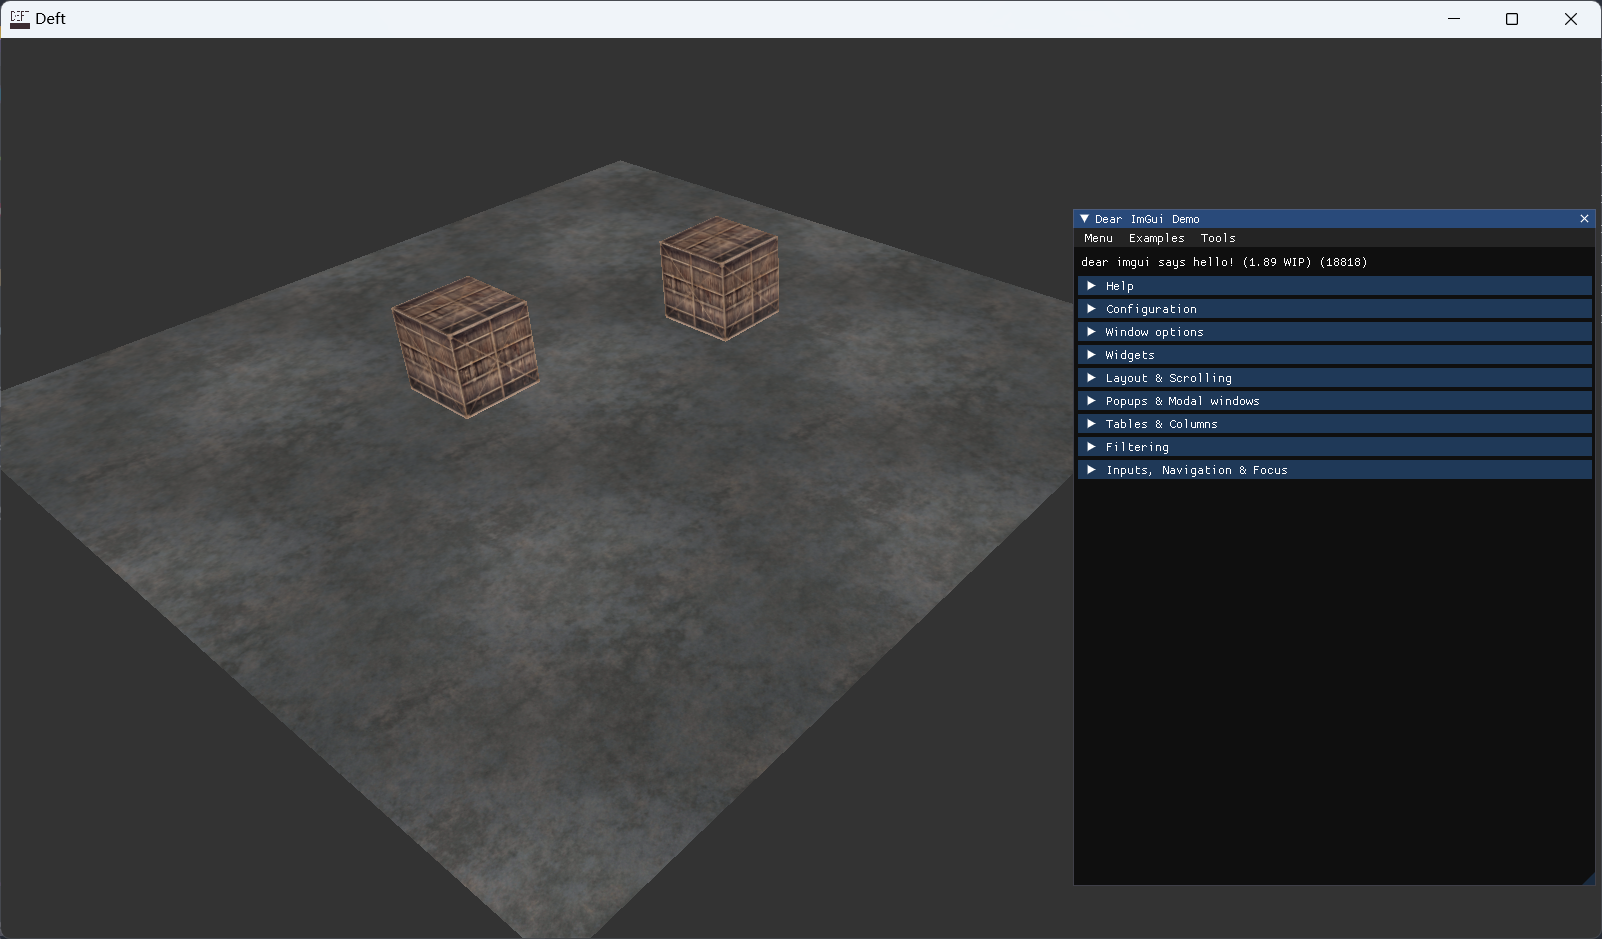
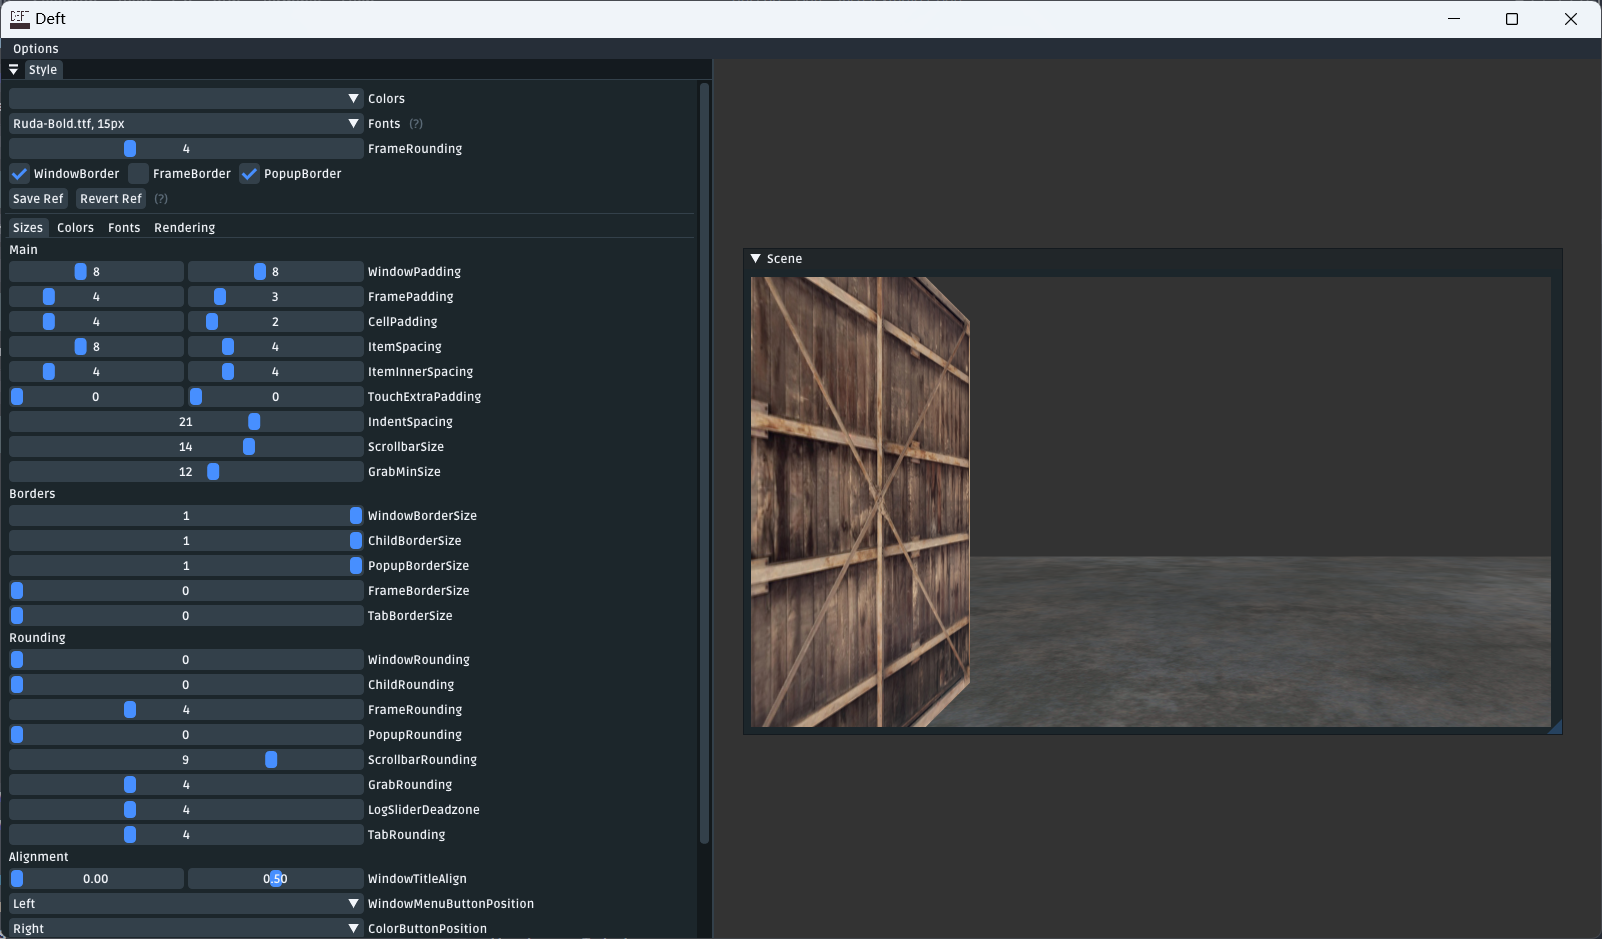
✨ feat(gui): 将 scene 渲染到 gui 窗口中
设置 gui 样式

diff --git a/source/deft/gui/gui.cpp b/source/deft/gui/gui.cpp
@@ -15,7 +15,7 @@ namespace deft {
 
 Gui::Gui() {
   init();
-  //
+  _scene = Application::Get().getScene();
 }
 
 Gui::~Gui() {
@@ -49,11 +49,63 @@ void Gui::init() {
 
   // When viewports are enabled we tweak WindowRounding/WindowBg so platform
   // windows can look identical to regular ones.
+
+  // 样式详情见
+  // https://github.com/ocornut/imgui/issues/707#issuecomment-512669512
   ImGuiStyle& style = ImGui::GetStyle();
-  if (io.ConfigFlags & ImGuiConfigFlags_ViewportsEnable) {
-    style.WindowRounding              = 0.0f;
-    style.Colors[ImGuiCol_WindowBg].w = 1.0f;
-  }
+  io.Fonts->AddFontFromFileTTF("assets/font/Ruda-Bold.ttf", 15.0f);
+  style.FrameRounding = 4.0f;
+  style.GrabRounding  = 4.0f;
+
+  ImVec4* colors                         = ImGui::GetStyle().Colors;
+  colors[ImGuiCol_Text]                  = ImVec4(0.95f, 0.96f, 0.98f, 1.00f);
+  colors[ImGuiCol_TextDisabled]          = ImVec4(0.36f, 0.42f, 0.47f, 1.00f);
+  colors[ImGuiCol_WindowBg]              = ImVec4(0.11f, 0.15f, 0.17f, 1.00f);
+  colors[ImGuiCol_ChildBg]               = ImVec4(0.15f, 0.18f, 0.22f, 1.00f);
+  colors[ImGuiCol_PopupBg]               = ImVec4(0.08f, 0.08f, 0.08f, 0.94f);
+  colors[ImGuiCol_Border]                = ImVec4(0.08f, 0.10f, 0.12f, 1.00f);
+  colors[ImGuiCol_BorderShadow]          = ImVec4(0.00f, 0.00f, 0.00f, 0.00f);
+  colors[ImGuiCol_FrameBg]               = ImVec4(0.20f, 0.25f, 0.29f, 1.00f);
+  colors[ImGuiCol_FrameBgHovered]        = ImVec4(0.12f, 0.20f, 0.28f, 1.00f);
+  colors[ImGuiCol_FrameBgActive]         = ImVec4(0.09f, 0.12f, 0.14f, 1.00f);
+  colors[ImGuiCol_TitleBg]               = ImVec4(0.09f, 0.12f, 0.14f, 0.65f);
+  colors[ImGuiCol_TitleBgActive]         = ImVec4(0.08f, 0.10f, 0.12f, 1.00f);
+  colors[ImGuiCol_TitleBgCollapsed]      = ImVec4(0.00f, 0.00f, 0.00f, 0.51f);
+  colors[ImGuiCol_MenuBarBg]             = ImVec4(0.15f, 0.18f, 0.22f, 1.00f);
+  colors[ImGuiCol_ScrollbarBg]           = ImVec4(0.02f, 0.02f, 0.02f, 0.39f);
+  colors[ImGuiCol_ScrollbarGrab]         = ImVec4(0.20f, 0.25f, 0.29f, 1.00f);
+  colors[ImGuiCol_ScrollbarGrabHovered]  = ImVec4(0.18f, 0.22f, 0.25f, 1.00f);
+  colors[ImGuiCol_ScrollbarGrabActive]   = ImVec4(0.09f, 0.21f, 0.31f, 1.00f);
+  colors[ImGuiCol_CheckMark]             = ImVec4(0.28f, 0.56f, 1.00f, 1.00f);
+  colors[ImGuiCol_SliderGrab]            = ImVec4(0.28f, 0.56f, 1.00f, 1.00f);
+  colors[ImGuiCol_SliderGrabActive]      = ImVec4(0.37f, 0.61f, 1.00f, 1.00f);
+  colors[ImGuiCol_Button]                = ImVec4(0.20f, 0.25f, 0.29f, 1.00f);
+  colors[ImGuiCol_ButtonHovered]         = ImVec4(0.28f, 0.56f, 1.00f, 1.00f);
+  colors[ImGuiCol_ButtonActive]          = ImVec4(0.06f, 0.53f, 0.98f, 1.00f);
+  colors[ImGuiCol_Header]                = ImVec4(0.20f, 0.25f, 0.29f, 0.55f);
+  colors[ImGuiCol_HeaderHovered]         = ImVec4(0.26f, 0.59f, 0.98f, 0.80f);
+  colors[ImGuiCol_HeaderActive]          = ImVec4(0.26f, 0.59f, 0.98f, 1.00f);
+  colors[ImGuiCol_Separator]             = ImVec4(0.20f, 0.25f, 0.29f, 1.00f);
+  colors[ImGuiCol_SeparatorHovered]      = ImVec4(0.10f, 0.40f, 0.75f, 0.78f);
+  colors[ImGuiCol_SeparatorActive]       = ImVec4(0.10f, 0.40f, 0.75f, 1.00f);
+  colors[ImGuiCol_ResizeGrip]            = ImVec4(0.26f, 0.59f, 0.98f, 0.25f);
+  colors[ImGuiCol_ResizeGripHovered]     = ImVec4(0.26f, 0.59f, 0.98f, 0.67f);
+  colors[ImGuiCol_ResizeGripActive]      = ImVec4(0.26f, 0.59f, 0.98f, 0.95f);
+  colors[ImGuiCol_Tab]                   = ImVec4(0.11f, 0.15f, 0.17f, 1.00f);
+  colors[ImGuiCol_TabHovered]            = ImVec4(0.26f, 0.59f, 0.98f, 0.80f);
+  colors[ImGuiCol_TabActive]             = ImVec4(0.20f, 0.25f, 0.29f, 1.00f);
+  colors[ImGuiCol_TabUnfocused]          = ImVec4(0.11f, 0.15f, 0.17f, 1.00f);
+  colors[ImGuiCol_TabUnfocusedActive]    = ImVec4(0.11f, 0.15f, 0.17f, 1.00f);
+  colors[ImGuiCol_PlotLines]             = ImVec4(0.61f, 0.61f, 0.61f, 1.00f);
+  colors[ImGuiCol_PlotLinesHovered]      = ImVec4(1.00f, 0.43f, 0.35f, 1.00f);
+  colors[ImGuiCol_PlotHistogram]         = ImVec4(0.90f, 0.70f, 0.00f, 1.00f);
+  colors[ImGuiCol_PlotHistogramHovered]  = ImVec4(1.00f, 0.60f, 0.00f, 1.00f);
+  colors[ImGuiCol_TextSelectedBg]        = ImVec4(0.26f, 0.59f, 0.98f, 0.35f);
+  colors[ImGuiCol_DragDropTarget]        = ImVec4(1.00f, 1.00f, 0.00f, 0.90f);
+  colors[ImGuiCol_NavHighlight]          = ImVec4(0.26f, 0.59f, 0.98f, 1.00f);
+  colors[ImGuiCol_NavWindowingHighlight] = ImVec4(1.00f, 1.00f, 1.00f, 0.70f);
+  colors[ImGuiCol_NavWindowingDimBg]     = ImVec4(0.80f, 0.80f, 0.80f, 0.20f);
+  colors[ImGuiCol_ModalWindowDimBg]      = ImVec4(0.80f, 0.80f, 0.80f, 0.35f);
 
   // Setup Platform/Renderer backends
   ImGui_ImplGlfw_InitForOpenGL(Application::Get().getWindow().getHandler(),
@@ -67,8 +119,120 @@ void Gui::update() {
   ImGui_ImplGlfw_NewFrame();
   ImGui::NewFrame();
 
-  bool flag = true;
-  ImGui::ShowDemoWindow(&flag);
+  static bool               open            = true;
+  static bool*              p_open          = &open;
+  static bool               opt_fullscreen  = true;
+  static bool               opt_padding     = false;
+  static ImGuiDockNodeFlags dockspace_flags = ImGuiDockNodeFlags_None;
+
+  // We are using the ImGuiWindowFlags_NoDocking flag to make the parent window
+  // not dockable into, because it would be confusing to have two docking
+  // targets within each others.
+  ImGuiWindowFlags window_flags =
+      ImGuiWindowFlags_MenuBar | ImGuiWindowFlags_NoDocking;
+  if (opt_fullscreen) {
+    const ImGuiViewport* viewport = ImGui::GetMainViewport();
+    ImGui::SetNextWindowPos(viewport->WorkPos);
+    ImGui::SetNextWindowSize(viewport->WorkSize);
+    ImGui::SetNextWindowViewport(viewport->ID);
+    ImGui::PushStyleVar(ImGuiStyleVar_WindowRounding, 0.0f);
+    ImGui::PushStyleVar(ImGuiStyleVar_WindowBorderSize, 0.0f);
+    window_flags |= ImGuiWindowFlags_NoTitleBar | ImGuiWindowFlags_NoCollapse |
+                    ImGuiWindowFlags_NoResize | ImGuiWindowFlags_NoMove;
+    window_flags |=
+        ImGuiWindowFlags_NoBringToFrontOnFocus | ImGuiWindowFlags_NoNavFocus;
+  } else {
+    dockspace_flags &= ~ImGuiDockNodeFlags_PassthruCentralNode;
+  }
+
+  // When using ImGuiDockNodeFlags_PassthruCentralNode, DockSpace() will render
+  // our background and handle the pass-thru hole, so we ask Begin() to not
+  // render a background.
+  if (dockspace_flags & ImGuiDockNodeFlags_PassthruCentralNode)
+    window_flags |= ImGuiWindowFlags_NoBackground;
+
+  // Important: note that we proceed even if Begin() returns false (aka window
+  // is collapsed). This is because we want to keep our DockSpace() active. If a
+  // DockSpace() is inactive, all active windows docked into it will lose their
+  // parent and become undocked. We cannot preserve the docking relationship
+  // between an active window and an inactive docking, otherwise any change of
+  // dockspace/settings would lead to windows being stuck in limbo and never
+  // being visible.
+  if (!opt_padding)
+    ImGui::PushStyleVar(ImGuiStyleVar_WindowPadding, ImVec2(0.0f, 0.0f));
+  ImGui::Begin("DockSpace Demo", p_open, window_flags);
+  if (!opt_padding) ImGui::PopStyleVar();
+
+  if (opt_fullscreen) ImGui::PopStyleVar(2);
+
+  // Submit the DockSpace
+  ImGuiIO& io = ImGui::GetIO();
+  if (io.ConfigFlags & ImGuiConfigFlags_DockingEnable) {
+    ImGuiID dockspace_id = ImGui::GetID("MyDockSpace");
+    ImGui::DockSpace(dockspace_id, ImVec2(0.0f, 0.0f), dockspace_flags);
+  } else {
+    // ShowDockingDisabledMessage();
+  }
+
+  if (ImGui::BeginMenuBar()) {
+    if (ImGui::BeginMenu("Options")) {
+      // Disabling fullscreen would allow the window to be moved to the front of
+      // other windows, which we can't undo at the moment without finer window
+      // depth/z control.
+      ImGui::MenuItem("Fullscreen", NULL, &opt_fullscreen);
+      ImGui::MenuItem("Padding", NULL, &opt_padding);
+      ImGui::Separator();
+
+      if (ImGui::MenuItem(
+              "Flag: NoSplit", "",
+              (dockspace_flags & ImGuiDockNodeFlags_NoSplit) != 0)) {
+        dockspace_flags ^= ImGuiDockNodeFlags_NoSplit;
+      }
+      if (ImGui::MenuItem(
+              "Flag: NoResize", "",
+              (dockspace_flags & ImGuiDockNodeFlags_NoResize) != 0)) {
+        dockspace_flags ^= ImGuiDockNodeFlags_NoResize;
+      }
+      if (ImGui::MenuItem("Flag: NoDockingInCentralNode", "",
+                          (dockspace_flags &
+                           ImGuiDockNodeFlags_NoDockingInCentralNode) != 0)) {
+        dockspace_flags ^= ImGuiDockNodeFlags_NoDockingInCentralNode;
+      }
+      if (ImGui::MenuItem(
+              "Flag: AutoHideTabBar", "",
+              (dockspace_flags & ImGuiDockNodeFlags_AutoHideTabBar) != 0)) {
+        dockspace_flags ^= ImGuiDockNodeFlags_AutoHideTabBar;
+      }
+      if (ImGui::MenuItem(
+              "Flag: PassthruCentralNode", "",
+              (dockspace_flags & ImGuiDockNodeFlags_PassthruCentralNode) != 0,
+              opt_fullscreen)) {
+        dockspace_flags ^= ImGuiDockNodeFlags_PassthruCentralNode;
+      }
+      ImGui::Separator();
+
+      if (ImGui::MenuItem("Close", NULL, false, p_open != NULL))
+        *p_open = false;
+      ImGui::EndMenu();
+    }
+
+    ImGui::EndMenuBar();
+  }
+
+  unsigned int sceneTexture = _scene->getFrameBuffer()->getColorAttachment();
+  ImGui::Begin("Scene");
+  ImGui::Image(reinterpret_cast<void*>(sceneTexture), ImVec2{800, 450},
+               ImVec2{0, 1}, ImVec2{1, 0});
+  ImGui::End();
+
+  ImGui::Begin("Style");
+  ImGui::ShowStyleEditor();
+  ImGui::End();
+
+  ImGui::End();
+
+  // bool flag = true;
+  // ImGui::ShowDemoWindow(&flag);
 }
 
 void Gui::draw() {

diff --git a/source/deft/app/application.cpp b/source/deft/app/application.cpp
@@ -24,7 +24,7 @@ Application::Application() {
 
   _window           = std::make_unique<Window>(1600, 900, "Deft");
   _context          = std::make_unique<GraphicContext>(_window->getHandler());
-  _scene            = std::make_unique<Scene>();
+  _scene            = std::make_shared<Scene>();
   _renderer         = std::make_unique<Renderer>();
   _inputManager     = std::make_unique<InputManager>(_window->getHandler());
   _gui              = std::make_unique<Gui>();
@@ -71,7 +71,6 @@ void Application::run() {
     glEnable(GL_DEPTH_TEST);
     glClearColor(0.2f, 0.2f, 0.2f, 1.0f);
     glClear(GL_COLOR_BUFFER_BIT | GL_DEPTH_BUFFER_BIT);
-    _renderer->drawFrame(_scene->getFrameBuffer());
     _gui->draw();
 
     // Window update
@@ -86,6 +85,6 @@ Window& Application::getWindow() { return *_window; }
 
 InputManager& Application::getInputManager() { return *_inputManager; }
 
-Scene& Application::getScene() { return *_scene; }
+std::shared_ptr<Scene>& Application::getScene() { return _scene; }
 
 }  // namespace deft

diff --git a/source/deft/app/application.h b/source/deft/app/application.h
@@ -22,14 +22,14 @@ class Application {
 
   static Application& Get();
 
-  Window&       getWindow();
-  InputManager& getInputManager();
-  Scene&        getScene();
+  Window&                 getWindow();
+  InputManager&           getInputManager();
+  std::shared_ptr<Scene>& getScene();
 
  private:
   std::unique_ptr<Window>           _window;
   std::unique_ptr<GraphicContext>   _context;
-  std::unique_ptr<Scene>            _scene;
+  std::shared_ptr<Scene>            _scene;
   std::unique_ptr<InputManager>     _inputManager;
   std::unique_ptr<Renderer>         _renderer;
   std::unique_ptr<Gui>              _gui;

diff --git a/source/deft/gui/gui.h b/source/deft/gui/gui.h
@@ -1,6 +1,10 @@
 #ifndef __DEFT_GUI_H__
 #define __DEFT_GUI_H__
 
+#include <memory>
+
+#include "scene/scene.h"
+
 namespace deft {
 
 class Gui {
@@ -15,6 +19,7 @@ class Gui {
   void draw();
 
  private:
+  std::shared_ptr<Scene> _scene;
 };
 
 }  // namespace deft
